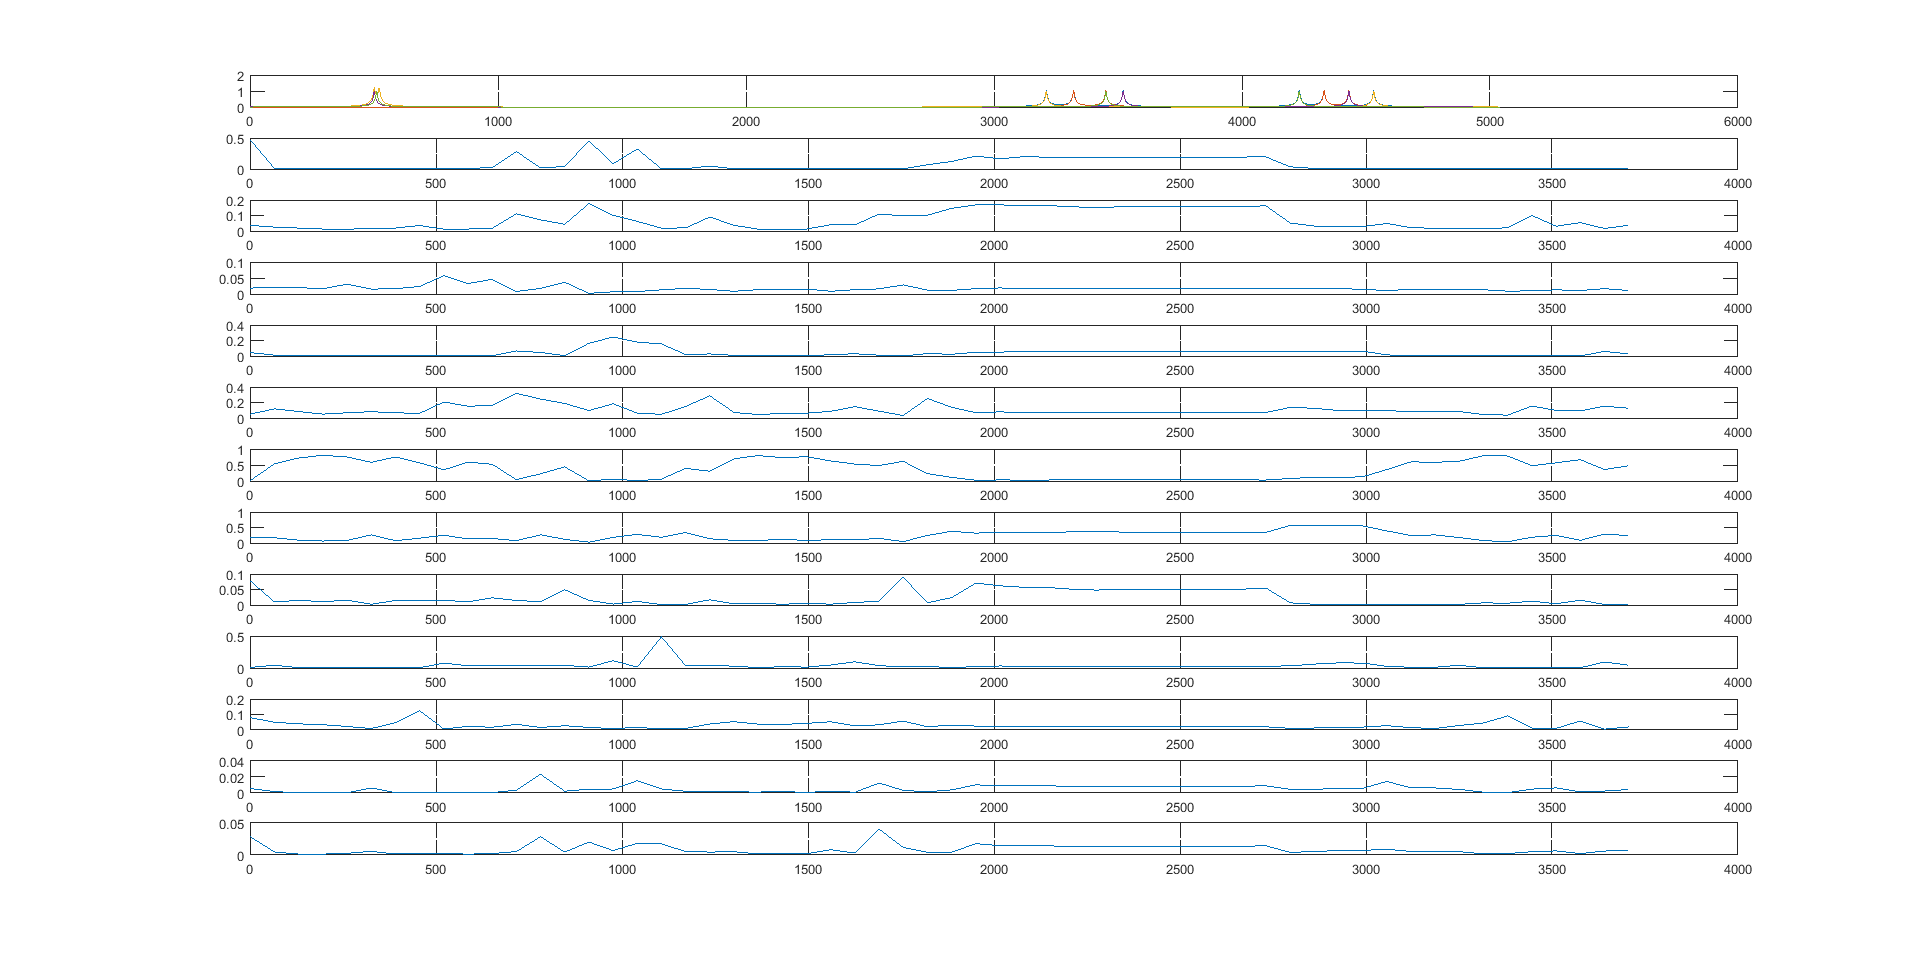
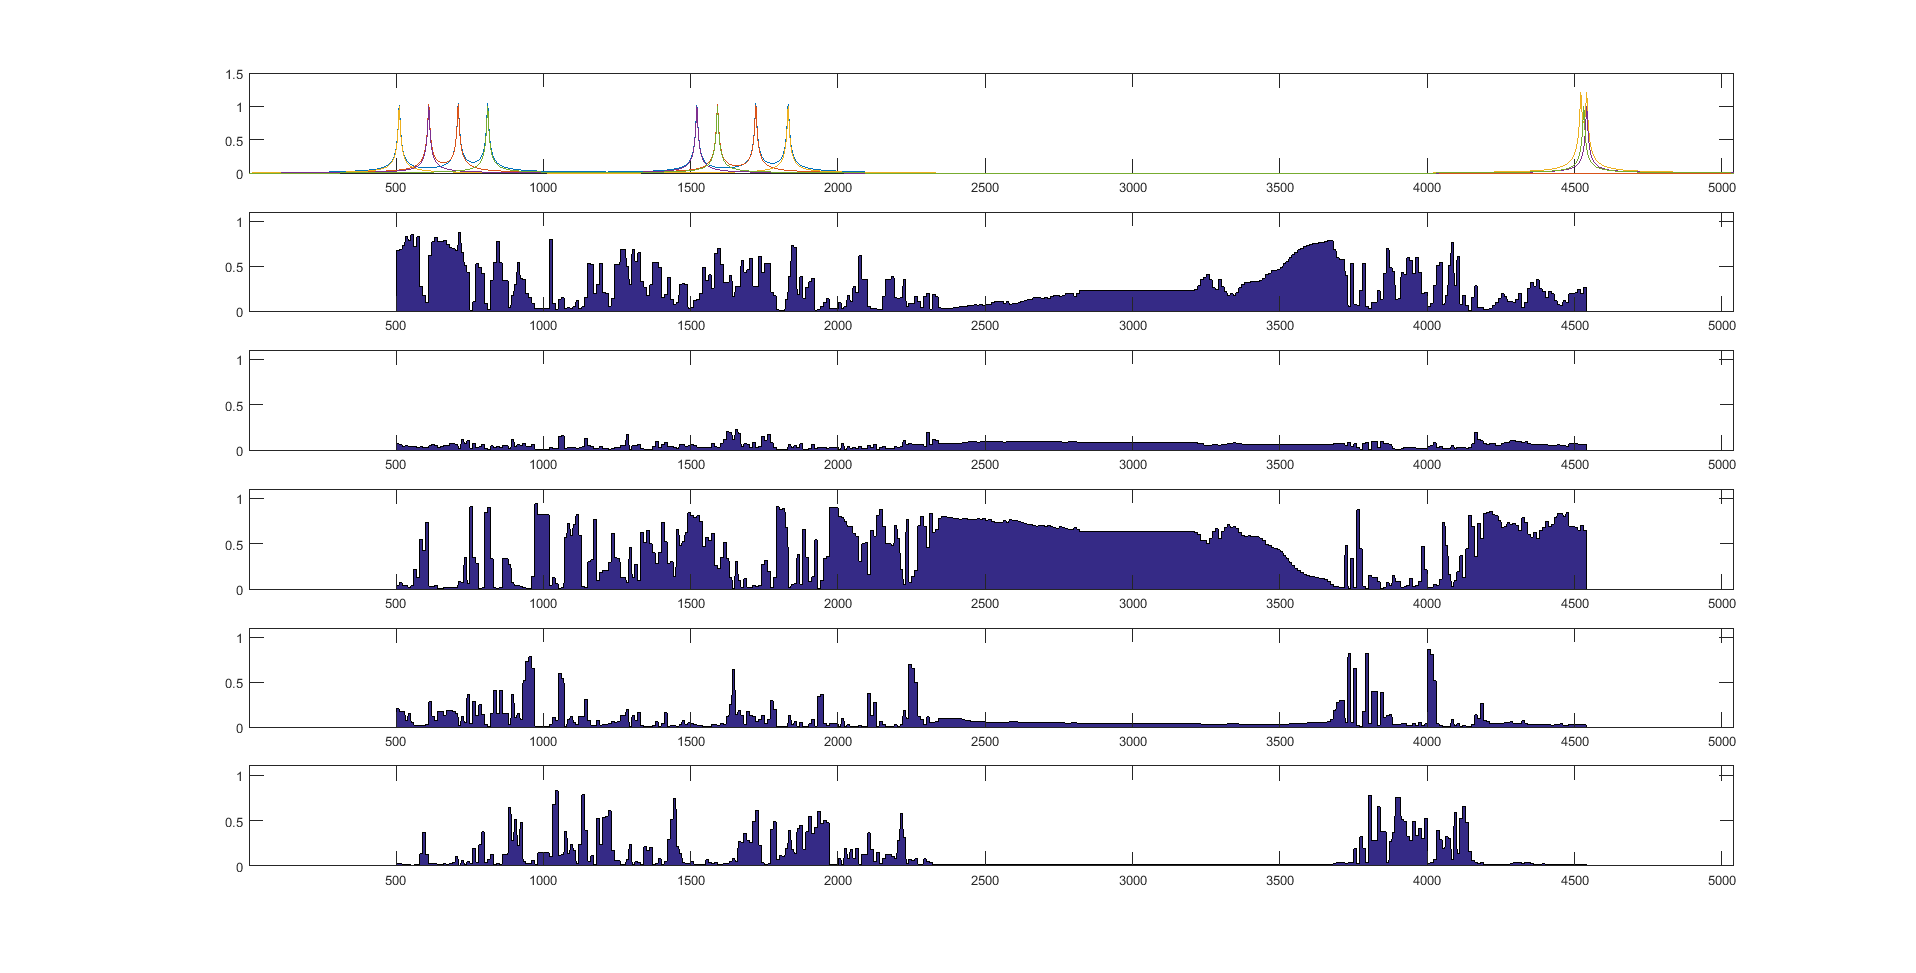
правильное сканирование шкалы и его график

diff --git a/README.md b/README.md
@@ -126,7 +126,7 @@ C   |   |   |   |   |   |0.5| 1 |0.5|   |    |
 
 ![линейные матрицы событий по классам](../master/pictures/readme/events_by_classes_linear_1.png "линейные матрицы событий по классам")
 
-результат сканирования скользящим окном нейронной сетью, пока что показывает не пойми что, т.к. позиционирование графиков друг относительно друга ещё не сделано по нормальному. всплески должны показывать где нс обнаружила похожие группы событий. первые два класса есть в исходной файле, десять других классов сгенерированы случайно.
+результат сканирования скользящим окном нейронной сетью, уже что-то показывает. но пока бардак, т.к. нейронная сеть не научилась классифицировать даже обучающие примеры, надо разбираться с параметрами обучения. всплески должны показывать где нс обнаружила похожие группы событий. первые два класса есть в исходной файле, десять других классов сгенерированы случайно.
 
 ![nn_window_scan_1.png](../master/pictures/readme/nn_window_scan_1.png)
 
